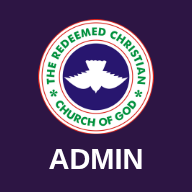
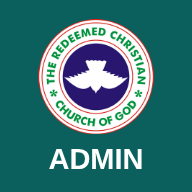
Give the Admin App deep teal so it never looks like the Ushers App
The Ushers App stays purple. The Admin App's banner, buttons, tabs and
home-screen icons move from deep aubergine to deep teal, with a cooler page
in light and dark, so the two apps are clearly different at a glance.

App v0.3.10.

Claude-Session: https://claude.ai/code/session_018Jv122nLiX8rS7stZg8Wk5

diff --git a/shared/style.css b/shared/style.css
@@ -1,7 +1,7 @@
 /* Ushering App: one look for both apps, each in its own colour.
    The banner carries the app's colour, the same one its home-screen icon is
-   drawn on (tools/make-icons.mjs): bright purple for the Ushers App, deep
-   aubergine for the Admin App, so the two can be told apart at a glance.
+   drawn on (tools/make-icons.mjs): purple for the Ushers App, deep teal
+   for the Admin App, so the two can be told apart at a glance.
    Light, Dark or Auto (follow the phone) is picked at the foot of either app
    and kept on the phone for both; the head of each page sets data-theme on
    <html> before the first paint so a dark phone never flashes white. */
@@ -18,11 +18,12 @@
   --brand: #b48ae0; --brand-ink: #151316; --ok: #5cc794; --warn: #f0b056; --bad: #ff8a80; --chip: #2c2433;
   color-scheme: dark;
 }
-/* The Admin App: the deep colour of its icon, in the banner and on its buttons. */
-:root.admin { --brand: #2d1544; --chip: #e6e0ec; --bar: #2d1544; --bg: #f1f0f3; }
+/* The Admin App: the deep teal of its icon, in the banner, buttons and tabs,
+   and a cooler page, so it never reads as the purple Ushers App. */
+:root.admin { --brand: #0b5f5c; --chip: #dcefed; --bar: #0b5f5c; --bg: #f0f5f4; --line: #d6e2e0; }
 :root.admin[data-theme="dark"] {
-  --bg: #121114; --card: #1c1a1f; --line: #322e37;
-  --brand: #cdb8e6; --brand-ink: #121114; --chip: #29232f; --bar: #2d1544;
+  --bg: #0f1514; --card: #172120; --line: #2a3836; --muted: #9db0ad;
+  --brand: #5fcdc3; --brand-ink: #0f1514; --chip: #1c2e2c; --bar: #0b5f5c;
 }
 * { box-sizing: border-box; }
 html, body { margin: 0; background: var(--bg); color: var(--ink); font: 16px/1.45 system-ui, -apple-system, "Segoe UI", Roboto, sans-serif; }

diff --git a/sw.js b/sw.js
@@ -2,7 +2,7 @@
    changes. Only the files below are served from the cache, and only when
    the network fails; everything else (the Admin App, the server) passes
    straight through. Same idea as the Driver App's sw.js. */
-const CACHE = "ushers-v0.3.9";
+const CACHE = "ushers-v0.3.10";
 const SHELL = ["./", "./index.html", "./config.js", "./shared/core.js", "./shared/reports.js", "./shared/style.css", "./shared/logo.png",
   "./manifest.webmanifest", "./icon-192.png", "./icon-512.png", "./apple-touch-icon.png"];
 

diff --git a/admin/index.html b/admin/index.html
@@ -4,7 +4,7 @@
 <meta charset="utf-8">
 <meta name="viewport" content="width=device-width, initial-scale=1, viewport-fit=cover">
 <title>Ushers Admin</title>
-<meta name="theme-color" content="#2d1544">
+<meta name="theme-color" content="#0b5f5c">
 <link rel="manifest" href="manifest.webmanifest">
 <link rel="apple-touch-icon" sizes="180x180" href="apple-touch-icon.png">
 <link rel="icon" type="image/png" sizes="192x192" href="icon-192.png">

diff --git a/shared/core.js b/shared/core.js
@@ -10,7 +10,7 @@
    duplicates is made on the phone. */
 (function () {
   "use strict";
-  var APP_VERSION = "v0.3.9";
+  var APP_VERSION = "v0.3.10";
   var CFG = window.USHERS_CONFIG || {};
   var K = { session: "ushers.session.v1", device: "ushers.device.v1", queue: "ushers.queue.v1", draft: "ushers.draft.v1:" };
 

diff --git a/DEPLOY.md b/DEPLOY.md
@@ -1,6 +1,6 @@
 # Setting up the Ushering App
 
-Versions: app v0.3.9 · server w0.3.6 · sheet v0.3.0.
+Versions: app v0.3.10 · server w0.3.6 · sheet v0.3.0.
 
 Already done once (skip if so): the D1 database exists with `server/schema.sql`
 run in its Console, the Worker exists, and `config.js` points at it
@@ -89,7 +89,7 @@ test people**.
 
 A. `/api/health` shows `pinPepper`, `sheetToken` and `sheetKnock` true, and
    after five minutes `clockLastTick` is no longer 0.
-B. The foot of both apps reads app v0.3.9 · server w0.3.6 · sheet v0.3.0
+B. The foot of both apps reads app v0.3.10 · server w0.3.6 · sheet v0.3.0
    (the sheet number appears after the first drain).
 C. The Admin App's sign-in lists only Head Ushers, Assistant Head Ushers and
    System Administrators. A Head Usher moves between the apps with Open
@@ -114,8 +114,8 @@ K. Admin → Events: add a Prayer Meeting for today and choose an usher on duty.
    That usher's report has no countersigner box and shows Verified once
    signed, and the Head Usher gets "Report filed" straight away, in the
    app, as a phone alert (if turned on) and by email.
-L. The Ushers App's banner is bright purple and the Admin App's is deep
-   aubergine, as their home-screen icons. Auto, Light and Dark at the foot of
+L. The Ushers App's banner is purple and the Admin App's is deep
+   teal, as their home-screen icons. Auto, Light and Dark at the foot of
    either app change both; Auto follows the phone.
 
 ## Updating later
